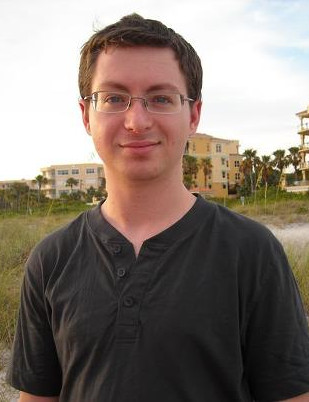
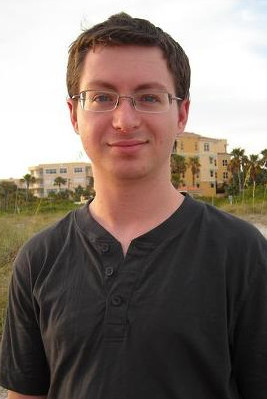
Adding several more contributors.

diff --git a/source/_themes/elemental/layout.html b/source/_themes/elemental/layout.html
@@ -109,7 +109,8 @@
     </div>
     <br/>
     &copy; Copyright 2013, <a href="http://www.stanford.edu/~poulson">Jack Poulson</a>.<br/>
-    Modification of <a href="http://fenicsproject.org">fenicsproject.org</a>  
+    <a href="http://github.com/poulson/elemental-web.git">Modification</a> of 
+    <a href="http://fenicsproject.org">fenicsproject.org</a>  
     [&copy; Copyright 2013, The FEniCS Project].
   </div>
 </div>

diff --git a/source/about/index.rst b/source/about/index.rst
@@ -51,9 +51,13 @@ published by the `Open Source Initiative <http://opensource.org>`__.
 About these pages
 *****************
 
-This website was created by Jack Poulson by checking out a copy of 
+`This website <http://github.com/poulson/elemental-web.git>`__  was 
+created by `Jack Poulson <http://www.stanford.edu/~poulson>`__ by 
+checking out a copy of 
 `fenics-web <https://bitbucket.org/fenics-project/fenics-web>`__ and slowly 
 replacing FEniCS-specific content with the appropriate Elemental content.
+The modified source code 
+`can be found here <http://github.com/poulson/elemental-web.git>`__.
 
 .. toctree::
    :hidden:

diff --git a/source/about/team.rst b/source/about/team.rst
@@ -11,9 +11,9 @@ Benevolent dictator
 .. raw:: html
     :file: dictator.inc
 
-==================================
-Active contributors (alphabetical)
-==================================
+===========================
+Contributors (alphabetical)
+===========================
 
 .. raw:: html
     :file: team.inc
